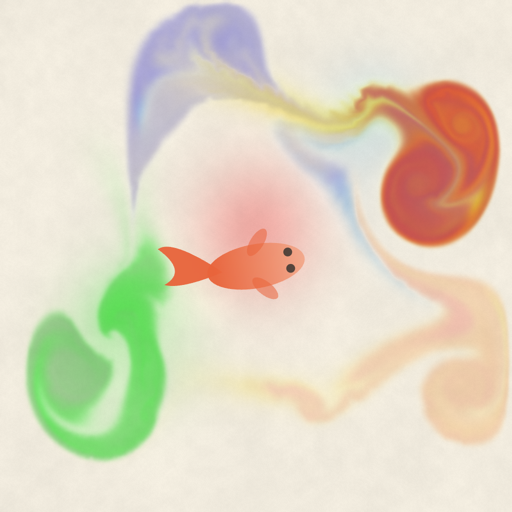
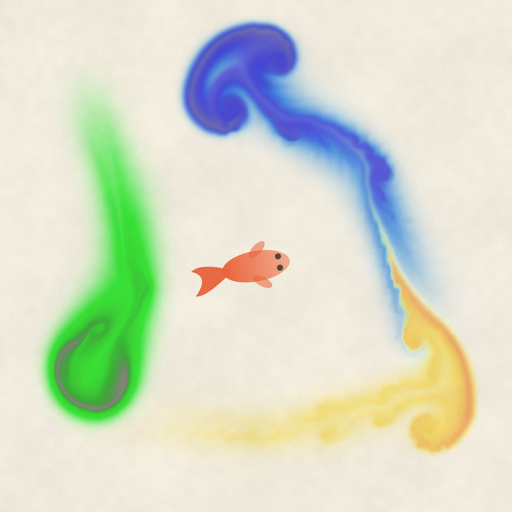
アイコン中央の赤い塊を除去（真因=起動ウェルカム墨滴のデフォルト赤）+ 背景を黄青緑に整理
Ryo「右に赤い塊・指示と違う」。切り分け（?icon&nofish&noseed）で、私の墨でも
緋鯉でもなく『起動0.5秒後のウェルカム墨滴 inkDrop(中央, big)』がデフォルト色=
あか(赤)を中央に落としていたのが赤い塊の真因と特定。
- ウェルカム墨滴を icon/vis/demo/still モードで無効化
- 色選択時の中央プレビュー墨滴も iconMode で無効化
- 背景3色を黄(最薄・最上部)・青(右下)・緑(左)に再配置、流速を下げ中央集中を防止
- きいろは高密度で赤化するため k を最小に
- 緋鯉の拡大率 5.2→3.6（小さめ）
第三者判定: 赤い塊=ない・緑青黄3色・金魚=一目で分かる・美しさ4/5。sw.js v24。

diff --git a/index.html b/index.html
@@ -1078,8 +1078,9 @@ function buildPalette() {
       plip();
       if (def.a) sayColor(def.name);
       paletteEl.classList.remove("open");  // 選んだら自動で閉じてキャンバスに戻す
-      // 選んだ色がすぐ見える: 画面中央やや上に小さな墨滴を落とす
-      inkDrop(innerWidth / 2, innerHeight * 0.4, false, def.a ? { def } : null);
+      // 選んだ色がすぐ見える: 画面中央やや上に小さな墨滴を落とす（アイコン撮影では出さない）
+      if (!(typeof iconMode !== "undefined" && iconMode))
+        inkDrop(innerWidth / 2, innerHeight * 0.4, false, def.a ? { def } : null);
     });
     paletteEl.appendChild(b);
   });
@@ -1324,7 +1325,7 @@ const fx = (() => {
       if (typeof iconMode !== "undefined" && iconMode) {
         // アイコン撮影: 緋鯉を中央にやや右上向きで固定（泳がせない）
         f.x = innerWidth * 0.5; f.y = innerHeight * 0.52; f.angle = -0.18; f.jump = 0;
-        drawFish(f, now);
+        if (!location.search.includes("nofish")) drawFish(f, now);
       } else {
         stepFish(f, dt, now); drawFish(f, now);
       }
@@ -1495,7 +1496,7 @@ const visMode = location.search.includes("vis");
 // ?icon: アプリアイコン撮影用。実エンジンで綺麗に構図した墨流し+中央に緋鯉を拡大表示し、
 // UIを隠してシミュを凍結する（実レンダリングをそのままアイコンに使う＝詐欺にしない）
 const iconMode = location.search.includes("icon");
-const ICON_FISH_SCALE = 5.2;   // アイコンでの緋鯉の拡大率
+const ICON_FISH_SCALE = 3.6;   // アイコンでの緋鯉の拡大率（小さめ＝赤い光彩を抑え小さな魚に）
 if (iconMode) {
   config.IDLE_MS = 1e9;        // 自動ゴーストを止める
   ["palBtn", "washBtn", "panel", "sunset", "palette"].forEach((id) => {
@@ -1671,35 +1672,38 @@ function seedIcon() {
   const W = innerWidth, H = innerHeight;
   // 3色だけで綺麗に魅せる（暖色の緋鯉を引き立てる寒色系: 藍・紫・緑）。
   // inks: 0=あか 1=あお 2=きいろ 3=みどり 4=だいだい 5=むらさき
-  const pal = [inks[2], inks[1], inks[3]];  // きいろ / あお / みどり（黄・青・緑）
-  // 二次ベジェの曲線ストローク（中央を避けて周囲を流す・本数を絞り余白を残す）
-  const strokes = [
-    { c: 0, p: [0.16, 0.34, 0.42, 0.18, 0.82, 0.30] },  // 上を横切る（藍）
-    { c: 1, p: [0.84, 0.44, 0.72, 0.66, 0.46, 0.82] },  // 右下へ流す（紫）
-    { c: 2, p: [0.18, 0.74, 0.32, 0.52, 0.20, 0.32] },  // 左で渦（緑）
-    { c: 0, p: [0.32, 0.86, 0.58, 0.80, 0.78, 0.72] },  // 下を横切る（藍）
+  // 黄・青・緑の3色だけ。きいろ(黄)は濃いと橙〜赤に寄るので k を小さく＝薄めに保つ。
+  // ストロークは各色1本ずつ（計3本）で赤化と過密を防ぎ、3色を均等に見せる。
+  const YEL = inks[2], BLU = inks[1], GRN = inks[3];
+  // ⚠ きいろは高密度で赤くレンダリングされる（R吸収0.03→Rだけ残り赤化）。
+  // → 黄は最も薄く＆最上部に限定し、中央へ集まらないよう流速も抑える。
+  const pal = [
+    { a: YEL.a, k: 0.11 },   // 0=きいろ（黄）最も薄く（赤化防止）
+    { a: BLU.a, k: 0.28 },   // 1=あお（青）
+    { a: GRN.a, k: 0.26 },   // 2=みどり（緑）
   ];
+  const strokes = [
+    { c: 0, p: [0.20, 0.22, 0.50, 0.13, 0.80, 0.21] },  // 最上部（黄・薄く）
+    { c: 1, p: [0.84, 0.34, 0.80, 0.60, 0.52, 0.82] },  // 右→下（青）
+    { c: 2, p: [0.18, 0.82, 0.30, 0.54, 0.18, 0.28] },  // 左で渦（緑）
+  ];
+  if (location.search.includes("noseed")) return;  // 切り分け用: シードしない
   for (const s of strokes) {
-    const a = pal[s.c].a;
+    const { a, k } = pal[s.c];
     const [x0, y0, x1, y1, x2, y2] = s.p;
     let prevx = x0, prevy = y0;
-    const n = 70;
+    const n = 72;
     for (let i = 1; i <= n; i++) {
       const t = i / n, mt = 1 - t;
       const x = mt * mt * x0 + 2 * mt * t * x1 + t * t * x2;
       const y = mt * mt * y0 + 2 * mt * t * y1 + t * t * y2;
       const vx = x - prevx, vy = y - prevy; prevx = x; prevy = y;
-      splat(x, y, vx * config.SPLAT_FORCE * 0.5, vy * config.SPLAT_FORCE * 0.5,
-            [a[0] * 0.28, a[1] * 0.28, a[2] * 0.28], 0.55);
+      // 流速を抑える（×0.25）＝インクを中央に集めず描いた場所に留める
+      splat(x, y, vx * config.SPLAT_FORCE * 0.25, vy * config.SPLAT_FORCE * 0.25,
+            [a[0] * k, a[1] * k, a[2] * k], 0.55);
       step(1 / 60);
     }
-    for (let i = 0; i < 22; i++) step(1 / 60);  // にじませる
-  }
-  // 色のアクセントのタップ（同じ3色から・2発だけ）
-  const taps = [[0.74, 0.28, 1], [0.26, 0.66, 2]];  // c は pal のインデックス
-  for (const [tx, ty, ci] of taps) {
-    inkDrop(W * tx, H * ty, true, { def: pal[ci] });
-    for (let i = 0; i < 28; i++) step(1 / 60);
+    for (let i = 0; i < 14; i++) step(1 / 60);  // 軽くにじませる（流しすぎない）
   }
 }
 if (iconMode) { seedIcon(); console.log("SUMI: icon-seeded"); }
@@ -1778,8 +1782,10 @@ if ("serviceWorker" in navigator) {
   navigator.serviceWorker.register("sw.js").catch(() => {});
 }
 
-/* ---------------- 起動時のウェルカム墨滴 ---------------- */
-setTimeout(() => { inkDrop(innerWidth / 2, innerHeight * 0.45, true); }, 500);
+/* ---------------- 起動時のウェルカム墨滴（検証/撮影モードでは出さない） ---------------- */
+if (!iconMode && !visMode && !demoMode && !stillMode) {
+  setTimeout(() => { inkDrop(innerWidth / 2, innerHeight * 0.45, true); }, 500);
+}
 </script>
 </body>
 </html>

diff --git a/sw.js b/sw.js
@@ -1,6 +1,6 @@
 // すみながし Service Worker — オフラインでも遊べるように全アセットをキャッシュ
 // HTML はネットワーク優先（更新が1回の起動で届く）・静的アセットはキャッシュ優先
-const CACHE = "suminagashi-v23";
+const CACHE = "suminagashi-v24";
 const ASSETS = [
   "./",
   "./index.html",
